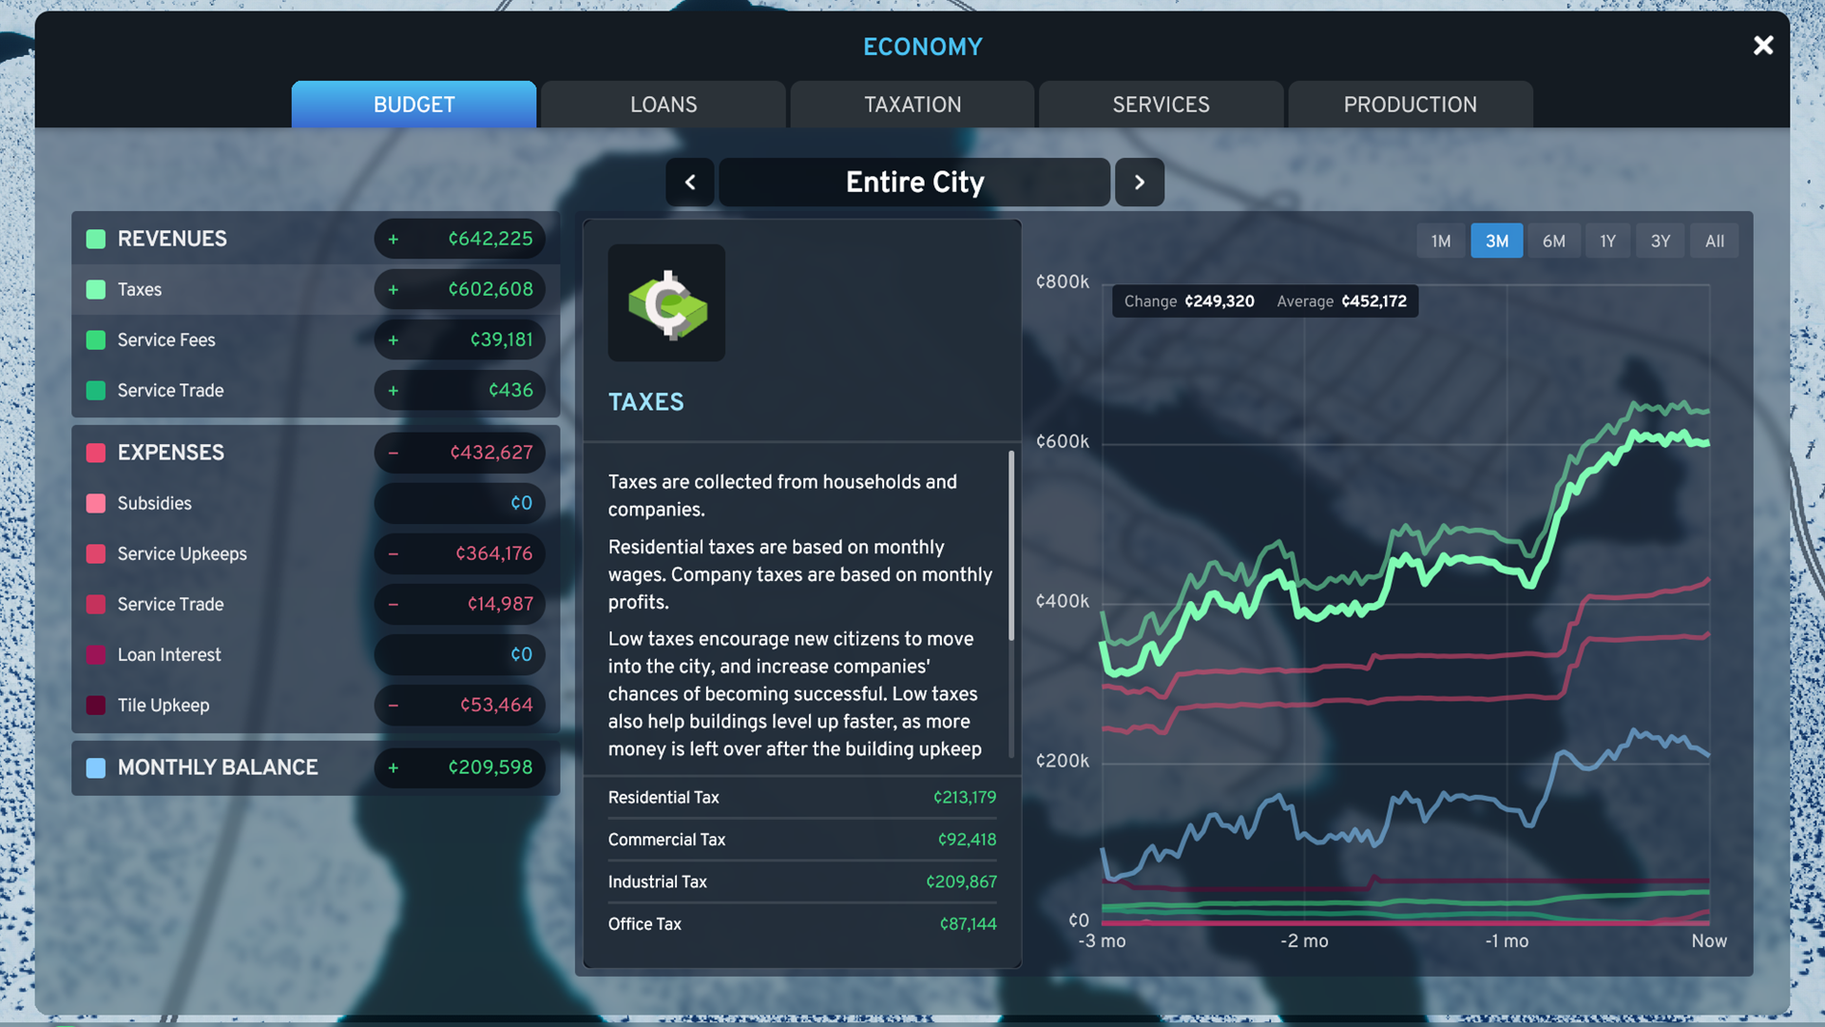
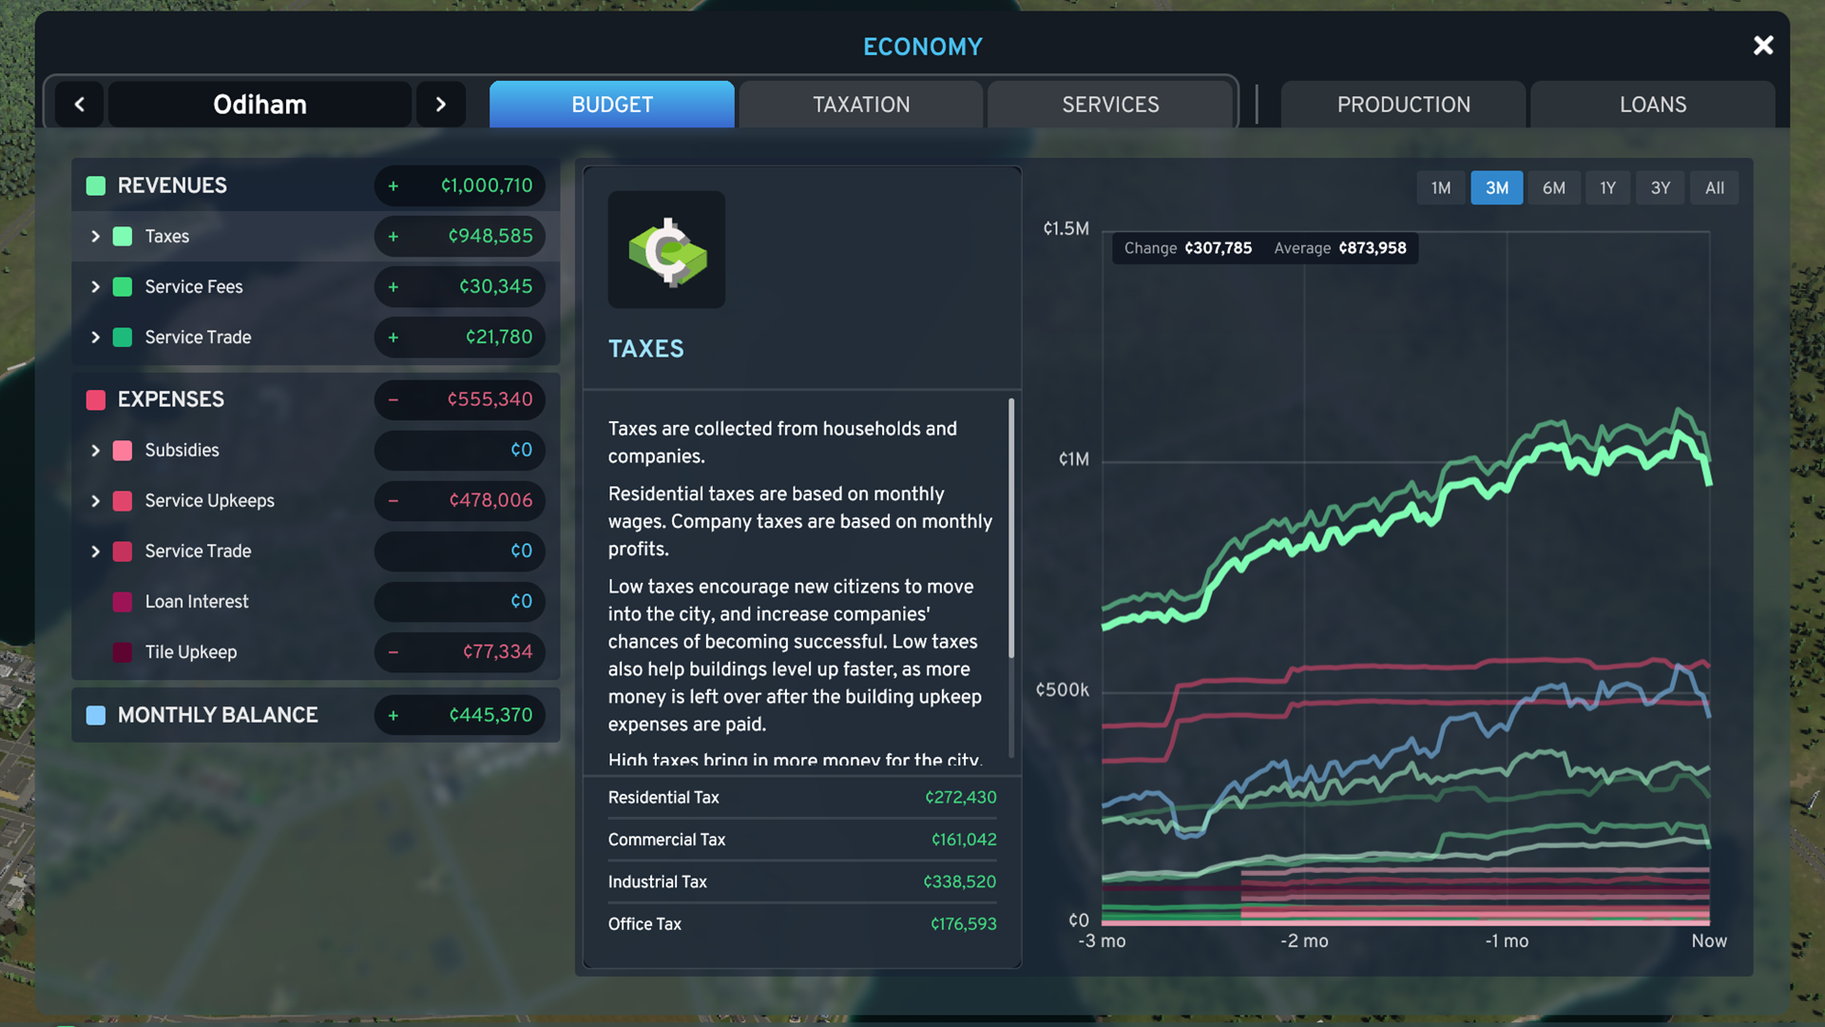
v1.2.0 - New store screenshots and page text for the Services table and district taxes (#90)
* Set-Location 'C:\Dev\fo-shots'
git fetch -q (Join-Path $HOME 'fo-store.bundle') 'refs/heads/feature/store-screenshots-new-features:refs/heads/feature/store-screenshots-new-features' 2>&1
git checkout -q -f feature/store-screenshots-new-features 2>&1
git log --oneline -1
foreach ($t in 'test-store-screenshots.ps1', 'test-in-game-check.ps1') {
  $out = & 'C:\Users\denhe\AppData\Local\Microsoft\WindowsApps\pwsh.exe' -NoProfile -File "./tools/$t" *>&1 | Out-String
  $code = $LASTEXITCODE
  $fails = ($out -split "`n" | Where-Object { $_ -match '^FAIL|failed' }) -join ' | '
  "$t EXIT $code $fails"
}

* Tool tests follow the header picker's points; store-screenshots tests check per-row squares

The previous commit's message is a pasted script by mistake: it holds the store-screenshots changes (08/09 shots,
the header picker's points, the per-row check squares, the settings) and the new page text.

* New store screenshots: Services table and district taxation shots; a sim run before the Taxation shots

The nine-shot set from Odiham (08-services-table and 09-taxation-district new). store-screenshots.ps1 runs the
simulation 30 s (-SimSeconds) before the Taxation shots, since a paused save's estimates all read 0, and clicks the
density taxes box on the reordered Options page instead of Record district budgets.

---------

diff --git a/README.md b/README.md
@@ -1,72 +1,106 @@
 # Fiscal Overhaul
 
 A Cities: Skylines II mod that reworks the Economy panel: a line chart of your city's budget history in place of
-the Budget tab's bar chart, for the whole city or any single district, and (as an optional beta feature) tax offsets
-by building density on the Taxation tab.
+the Budget tab's bar chart, a Services tab that shows what each service costs and earns, and tax rates per district,
+all driven by one district picker. Optional beta features add density taxes and per-district service budgets.
 
 ![The Budget tab's line chart](Mod/Properties/Screenshots/01-budget-chart-v1-2-0.png)
 
 ## Features
 
+### One district picker for three tabs
+
+- A **district picker** at the left of the Economy panel's tabs, framed together with **Budget, Taxation and
+  Services**, the tabs it drives: Entire City (shown as your city's name), each of your districts, or Outside
+  Districts (everything not in a district).
+- Step through with the arrows, or click the name to pick from the list. The choice carries across the three tabs.
+
 ### Budget tab: a line chart of your budget history
 
 - **One large line chart** of total revenue, total expenses, the monthly balance and any single budget item
   (residential tax, electricity, healthcare, ...), each as a per-month rate, the same figure the vanilla panel shows.
-- **Series filters:** click a row on the left to show or hide its line. Only the items your city actually has are
-  listed.
+- **Series filters:** click a row on the left to show or hide its line; ticking a group turns its items on or off
+  together. Only the items your city actually has are listed.
 - **Time span:** 1 month, 3 months, 6 months, 1 year, 3 years or all history. The history is the game's own
   per-source budget statistics, which it already keeps in your save, so a city you load shows everything back to its
   founding, not just what happened since you installed the mod.
 - **Exact values on hover:** the tooltip shows the hovered line's value for that month (for example "¢57,466/mo")
-  and how long ago it was. Under the rows, the selected span's now / average / low / high / change for the hovered
-  line or row.
+  and how long ago it was, with the span's change and average at the top of the chart.
 - **The vanilla detail panel:** hovering a budget item row pops out the game's own breakdown of that item by source.
+- **Per-district budgets:** pick a district to see what its buildings pay in taxes, at its own rates, and its share
+  of service fees and upkeep by use. City-wide items (loan interest, map tile upkeep, service trade, subsidies) show
+  under the whole city only. District history is recorded from the first time the mod runs on a save, 32 times a
+  month, and kept in the save.
 
 ![The tooltip and span stats](Mod/Properties/Screenshots/02-budget-tooltip-v1-2-0.png)
 
 ![Hovering a budget row shows the game's own detail panel for it](Mod/Properties/Screenshots/05-budget-vanilla-detail-v1-2-0.png)
 
-### Per-district budgets
+![One district's budget, picked with the header's district picker](Mod/Properties/Screenshots/06-budget-district-v1-2-0.png)
 
-- **District selector** at the top of the Budget tab: Entire City, each of your districts, or Outside Districts
-  (everything not in a district). Step through them with the arrows either side, or click the name to pick from the
-  list.
-- **Taxes** are what each district's buildings pay, at that district's own rates, so district policies such as Low
-  Commercial Tax are counted.
-- **Service fees and upkeep** are shared out by each district's use. City-wide items (loan interest, map tile upkeep,
-  service trade, subsidies) show under Entire City only.
-- **District history** is recorded from the first time the mod runs on a save, 32 times a month, and kept in the save.
+![The district list: the city, each district, and Outside Districts](Mod/Properties/Screenshots/07-budget-district-list-v1-2-0.png)
 
-![One district's budget, picked with the selector above the chart](Mod/Properties/Screenshots/06-budget-district-v1-2-0.png)
+### Services tab: costs and fee revenue in one table
 
-![The district list: Entire City, each district, and Outside Districts](Mod/Properties/Screenshots/07-budget-district-list-v1-2-0.png)
+- **A table like the Taxation tab:** one row per service with its **budget slider** and its **cost** (upkeep and
+  imports), and a row under it for each **fee** with its **revenue**. Electricity and Water fees have their sliders
+  right there.
+- **Estimated total** at the bottom: the rows add up to it.
+- **Reset buttons and markers:** each slider shows where its default is, and a button puts it back.
+- **The game's info column** at the right explains whatever you hover: a service, its budget (with the efficiency it
+  gives) or a fee's effects.
+- Prefer the vanilla tab? Turn off **Enable services table** in Options.
 
-### Taxation tab: tax offsets by density (BETA)
+![The Services table, with the info column explaining the hovered service](Mod/Properties/Screenshots/08-services-table-v1-2-0.png)
 
-This is a beta feature and is **off by default**: turn it on with **Enable density taxes (BETA)** in Options >
-Fiscal Overhaul.
+### Taxation tab: tax rates per district
 
-- Under each zone, an offset per building density, added on top of the vanilla rate: residential low / medium /
-  high, commercial low / high, office low / high, and industrial.
-- Each offset is capped at ±5 percentage points, and the tab shows an estimate of the extra (or lost) revenue per
-  month.
-- **Income only:** an offset changes the tax a building pays, not demand or happiness. The vanilla zone rates keep
-  doing that job.
+- **Per-district tax rates:** pick a district (or Outside Districts) in the header and set its own rates, each zone
+  with its education levels and resources. A district without its own rate follows the city's, and the estimates
+  show what the district brings in.
+- Demand, happiness and the homes households choose react to a district's rates as to the city's.
+- **Reset buttons and markers** on every row: a district's row goes back to the city's rate, the city's to the game's
+  default.
 
-![Density offsets on the Taxation tab, with density taxes enabled](Mod/Properties/Screenshots/03-taxation-density-v1-2-0.png)
+![The Taxation tab in one district's view](Mod/Properties/Screenshots/09-taxation-district-v1-2-0.png)
+
+### Density taxes (BETA)
+
+A beta feature, **off by default**: turn it on with **Enable density taxes (BETA)** in Options > Fiscal Overhaul.
+
+- A **density tax** per zone and building density (residential low / medium / high, commercial low / high, office
+  low / high, industrial), from −5% to +10%, paid on top of income tax. The city and each district can set their own.
+- Demand, happiness and households choosing homes react to it as to any tax, and the Taxation tab estimates what each
+  density rate brings in.
+
+![Density tax rates on the Taxation tab, with density taxes enabled](Mod/Properties/Screenshots/03-taxation-density-v1-2-0.png)
+
+### District service budgets (BETA)
+
+A beta feature, **off by default**: turn it on with **District service budgets (BETA)** in Options.
+
+- Each district (and Outside Districts) can run a service at its **own budget**, from 50% to 150%, changing that
+  district's service buildings' efficiency and upkeep. Districts without one follow the city slider.
+- Set them on the Services tab with the district picker; the table then shows that district's costs and fee revenue.
 
 ## Options
 
-The mod has its own page in the game's Options menu:
+The mod has its own page in the game's Options menu, in three groups:
 
-- **Enable budget chart** (default on). Turned off, the Budget tab is the vanilla one.
-- **Enable density taxes (BETA)** (default off). A beta feature: tick it to get the density rows on the Taxation tab.
-  Off, the Taxation tab is the vanilla one and every building pays the vanilla rate; your offsets are kept.
-- **Record district budgets** (default on). Off, nothing new is recorded and the district selector is hidden; what
-  was recorded is kept.
-- **Reset density tax offsets**: sets every density offset back to 0, after a confirmation.
+- **Features**, which change only what you see:
+  - **Enable budget chart** (default on). Off, the Budget tab is the vanilla one.
+  - **Record district budgets** (default on). Off, nothing new is recorded; what was recorded is kept.
+  - **Enable services table** (default on). Off, the Services tab is the vanilla one.
+- **Simulation changes**, which change how the game plays:
+  - **Simulation changes** (default on), the master switch. Off, the game charges its own taxes again (no district
+    or density tax rates) and every service building follows the city's budget slider; your rates and settings are
+    kept, and the switches below are greyed out.
+  - **Enable density taxes (BETA)** and **District service budgets (BETA)** (both default off).
+  - **Run on untested game version** (default off). The mod's tax charging is checked against specific game
+    versions; on any other, taxes stay vanilla (the Taxation tab says so) unless you tick this.
+- **Reset**: district service budgets, and density tax rates, each after a confirmation.
 
-![The Options page: the budget chart, density taxes (BETA) and district recording switches](Mod/Properties/Screenshots/04-options-v1-2-0.png)
+![The Options page: the feature, simulation and reset groups](Mod/Properties/Screenshots/04-options-v1-2-0.png)
 
 ## Install
 
@@ -77,12 +111,12 @@ mods or DLC.
 ## Compatibility
 
 - **Game version:** 1.6.x (built and tested on 1.6.3f1).
-- **Other mods:** Fiscal Overhaul replaces the Economy panel's vanilla `BudgetPage` and extends its `TaxationGroup`.
-  Another mod that replaces either of those may conflict with it: one of the two will win. Mods that change how
-  households and companies are taxed may interact with the density offsets.
-- **Saves:** the mod keeps its district history in your save. The city's budget history is the game's own
-  statistics, and the density offsets are a global mod setting. Removing the mod is safe: the save still loads (the
-  game skips the district data), and the city goes back to the vanilla panel and the vanilla tax rates.
+- **Other mods:** Fiscal Overhaul replaces the Economy panel's vanilla Budget and Services pages and extends its
+  Taxation tab and tab bar. Another mod that replaces any of those may conflict with it: one of the two will win. Mods
+  that change how households and companies are taxed may interact with the district and density tax rates.
+- **Saves:** the mod keeps its district history, the tax rates it sets and the district service budgets in your save.
+  Removing the mod is safe: the save still loads (the game skips the mod's data), and the city goes back to the
+  vanilla panel, vanilla taxes and the city's service sliders.
 
 ## FAQ
 
@@ -94,20 +128,17 @@ in as months pass.
 The game keeps budget history only for the whole city. The mod records each district's from the first time it runs on
 a save, so district charts start then.
 
-**Why are my density offsets the same in every city?**
-They are a mod setting, not part of the save, so they apply to every city you play. Per-save offsets may come in a
-later version. Use **Reset density tax offsets** in Options to clear them.
-
-**Do the density offsets change demand or happiness?**
-No. They change only the tax revenue the city collects; demand and happiness follow the vanilla zone rates.
+**Do district and density tax rates change demand or happiness?**
+Yes: the game reacts to them as to its own tax rates, for the buildings and households they apply to. Turn off
+**Simulation changes** in Options to go back to the game's own taxes at once; your rates are kept.
 
 **Why are expenses drawn above zero?**
 So you can compare them with revenue on one axis. The monthly balance line can go below zero, and the zero line is
 drawn brighter.
 
-**How do I turn off one half of the mod?**
-Use **Enable budget chart** or **Enable density taxes (BETA)** in the mod's Options page. Each restores the vanilla
-behaviour for its tab.
+**How do I turn off part of the mod?**
+Each tab has its switch in the mod's Options page (**Enable budget chart**, **Enable services table**), and
+**Simulation changes** turns off everything that changes how the game plays. Each restores the vanilla behaviour.
 
 ## Bug reports and suggestions
 

diff --git a/knowledge/releasing.md b/knowledge/releasing.md
@@ -67,10 +67,12 @@ the `ChangeLog`. The promotion stamps it, so the version on `master` is always t
 ## Screenshots
 
 The page's pictures live in `Mod/Properties/Screenshots/`, each listed as a `Screenshot` in
-`PublishConfiguration.xml` in the order the mod page shows them; the README embeds the same files. The set is seven
+`PublishConfiguration.xml` in the order the mod page shows them; the README embeds the same files. The set is nine
 shots, by base name (the number is when a shot was added, not its place on the page): `01-budget-chart`,
 `02-budget-tooltip`, `03-taxation-density`, `04-options`, `05-budget-vanilla-detail`, `06-budget-district`,
-`07-budget-district-list`.
+`07-budget-district-list`, `08-services-table` (the table, Electricity hovered so the info column shows),
+`09-taxation-district` (Taxation in the first district's view). A new shot gets a `<Screenshot>` entry and a README
+link by hand (any version suffix): the install renames them.
 
 - **Spec.** 1920x1080 24-bit RGB PNGs (about 1.2 to 1.4 MB each; the captures are opaque, and the 32-bit ARGB a `System.Drawing` bitmap saves by default put some over the 2.1 MB limit) from full-scale window captures at 2560x1440: an Economy panel shot is
   cropped to the 16:9 box (285, 193)-(2275, 1312) around the panel and scaled, the Options page is scaled whole.
@@ -85,12 +87,15 @@ shots, by base name (the number is when a shot was added, not its place on the p
   released name.
 - **`tools/store-screenshots.ps1`** takes the set (`Get-Help ./tools/store-screenshots.ps1 -Full`): the same claim,
   launch, paused check and quit as `in-game-check.ps1`; before the launch it sets the mod's settings file
-  (`FiscalOverhaul.coc` in the game's LocalLow folder: the chart, district recording and density taxes on, density
-  offsets from `-Offsets`, default three set) and puts the original back byte for byte after the game exits; it turns
-  every Budget row on (reading each check square off a full-scale capture, so a row already on isn't toggled off),
-  takes the seven shots, switches density taxes back off on the Options page, quits, then crops, scales and installs
+  (`FiscalOverhaul.coc` in the game's LocalLow folder: the chart, district recording, the services table, simulation
+  changes and density taxes on, the density offsets template from `-Offsets`, which only a save without its own
+  density rates takes: Odiham's own rates are what `03` shows) and puts the original back byte for byte after the game
+  exits; it turns every Budget row on (reading each check square off a full-scale capture, so a row already on isn't
+  toggled off), takes the Budget shots, **runs the simulation `-SimSeconds` (default 30) and pauses it again** before
+  the Taxation shots (their estimates count only payers the tax engine charged lately, and a save that loads paused
+  has charged none, so without the run every estimate reads ¢0), takes the rest of the nine shots, switches density taxes back off on the Options page, quits, then crops, scales and installs
   them: the new files in `Screenshots/`, the `Screenshot` entries and README links renamed in place (the page order
-  kept), the old files of each base removed. All seven or nothing. Commit the result through a PR into `autodev`.
+  kept), the old files of each base removed. The whole set or nothing. Commit the result through a PR into `autodev`.
 - **Points it hasn't clicked before** (`-ListPoints`: source `derived`) each get a check shot in `-CheckDir`; a run
   that misses one is redone with `-Point Name=x,y`, and the corrected value goes into `tools/game-run-common.ps1`.
   `-FromDir <dir>` re-crops and installs captures already taken (`<base>.png` at 2560x1440) without the game.

diff --git a/knowledge/repo-structure.md b/knowledge/repo-structure.md
@@ -72,7 +72,7 @@ changing the script ([testing.md § Tool tests](testing.md#tool-tests)).
 | `new-test-batch.ps1` | Builds a test batch branch from several branches; `-Check`, `-Blame` ([git-workflow.md § Test batches](git-workflow.md#test-batches)) |
 | `game-control.ps1` | Drives the game from the shell on Windows, no computer use ([testing.md § On Windows without computer use](testing.md#on-windows-without-computer-use)): `screenshot` (primary monitor, `-Region`, `-Window`, `-Scale`, `-Delay`), `click`, `move`, `move-relative`, `hover`, `key` (scan codes), `focus`/`window` (the game, or `-Title`), `windows`, `wait-process` (`-Title`, `-Gone`), `wait-loaded` (the save), `cursor`. Tested by `test-game-control.ps1` (no game needed; not in `$LandingPowerShellSuites`, as it moves the cursor) |
 | `in-game-check.ps1` | The in-game check as one script ([testing.md § The in-game check](testing.md#the-in-game-check)): refuses unless the game is free, deploys (`-SkipDeploy`, `-Ref`), launches through Steam, resumes the last save, keeps it paused, screenshots Budget, the chart tooltip and Taxation into `-Out` with a `manifest.md`, runs `-Steps` (a file of extra clicks, hovers, keys and shots), and always quits the instance it launched. `-Point Name=x,y` corrects a point, `-ListPoints`, `-DryRun`. Tested by `test-in-game-check.ps1` |
-| `store-screenshots.ps1` | The Paradox Mods screenshot set ([releasing.md § Screenshots](releasing.md#screenshots)): the same claim, launch and quit; sets the mod's settings file for the shots (density taxes on, `-Offsets`) and restores it; turns every Budget row on; takes the seven shots, crops and scales them to 1920x1080 and installs them as `<base>-v<X-Y-Z>.png`, renaming the `Screenshot` entries and README links and removing the old files. `-FromDir` re-crops captures already taken; `-Version`, `-DryRun`. Tested by `test-store-screenshots.ps1` |
+| `store-screenshots.ps1` | The Paradox Mods screenshot set ([releasing.md § Screenshots](releasing.md#screenshots)): the same claim, launch and quit; sets the mod's settings file for the shots (density taxes on, `-Offsets`) and restores it; turns every Budget row on; runs the simulation briefly before the Taxation shots (their estimates need charged payers); takes the nine shots, crops and scales them to 1920x1080 and installs them as `<base>-v<X-Y-Z>.png`, renaming the `Screenshot` entries and README links and removing the old files. `-FromDir` re-crops captures already taken; `-Version`, `-DryRun`. Tested by `test-store-screenshots.ps1` |
 | `game-run-common.ps1` | What those two dot-source: the named points (client offsets in the 2560x1440 window, measured or derived), the claim, launch, paused check and quit, the steps grammar, the crop, the store set's names and the config, README and settings rewrites |
 | `check-batch-status.ps1` | One sweep for an orchestrator: each branch against `origin/autodev`, worktree state, PRs, whether the game is running, and what the Mods folder holds |
 | `prune-worktrees.ps1` | Removes worktrees whose branch has landed and that are clean (`-Apply`; dry run without) |

diff --git a/knowledge/log.md b/knowledge/log.md
@@ -2,6 +2,7 @@
 
 ## 2026-11-09
 
+* **Store screenshots for the new features** (user request): a new nine-shot set from Odiham with `08-services-table` (the table and its info column) and `09-taxation-district` (a district's own rates), the mod page's short and long descriptions and the README rewritten for the header picker, the Services table and per-district tax rates. `store-screenshots.ps1` follows the framed header picker's points, reads each Budget row's own check square, runs the simulation 30 s before the Taxation shots (a paused save's estimates all read ¢0) and clicks the density taxes box on the reordered Options page (it had hit Record district budgets). [releasing.md § Screenshots](releasing.md#screenshots)
 * **Longer district names in the header picker** (user request): the picker fills a 340rem slot (was 310rem, the name capped at 190rem) and the name is 22rem bold (was 26rem). [impl/budget-chart.md § District selector](impl/budget-chart.md#district-selector)
 * **Services table switch; framed district picker** (user requests): Options > Features > Enable services table (default on) turns the Services tab back to vanilla's; the header's district picker is as tall as a tab with a bold 26rem name, and a filled outline frames it with Budget, Taxation and Services, the tabs it drives. [impl/district-service-budgets.md](impl/district-service-budgets.md#ui), [impl/budget-chart.md § District selector](impl/budget-chart.md#district-selector)
 * **Services tab: info column back, cost and revenue split** (user request): vanilla's right info column (`ServiceItemDetail`) is restored beside the table and explains the hovered service, budget slider or fee; the Estimate column shows each service's cost only and each fee's revenue as a positive figure, with a row for every fee (a slider only on adjustable ones), still adding up to the total. [impl/district-service-budgets.md](impl/district-service-budgets.md#ui)
